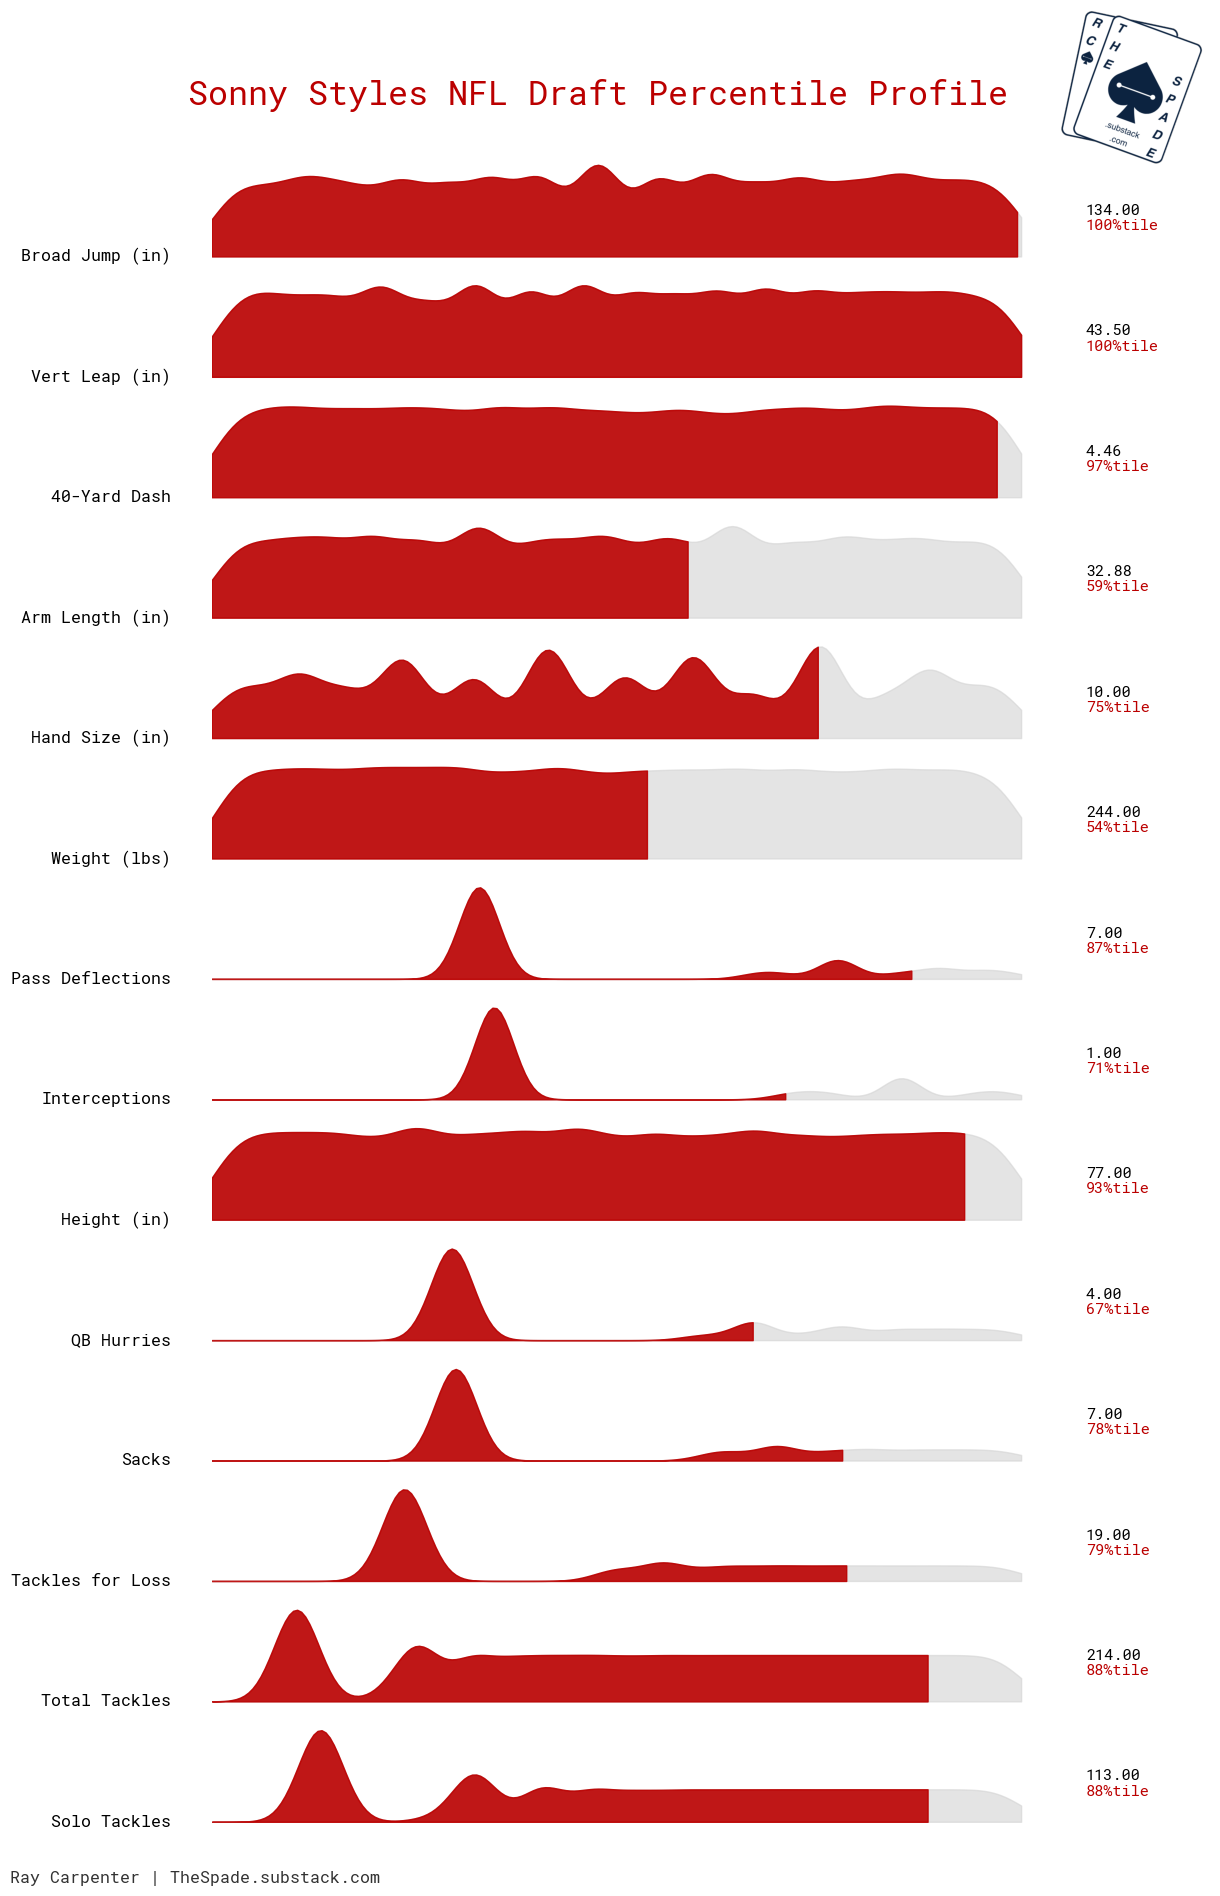
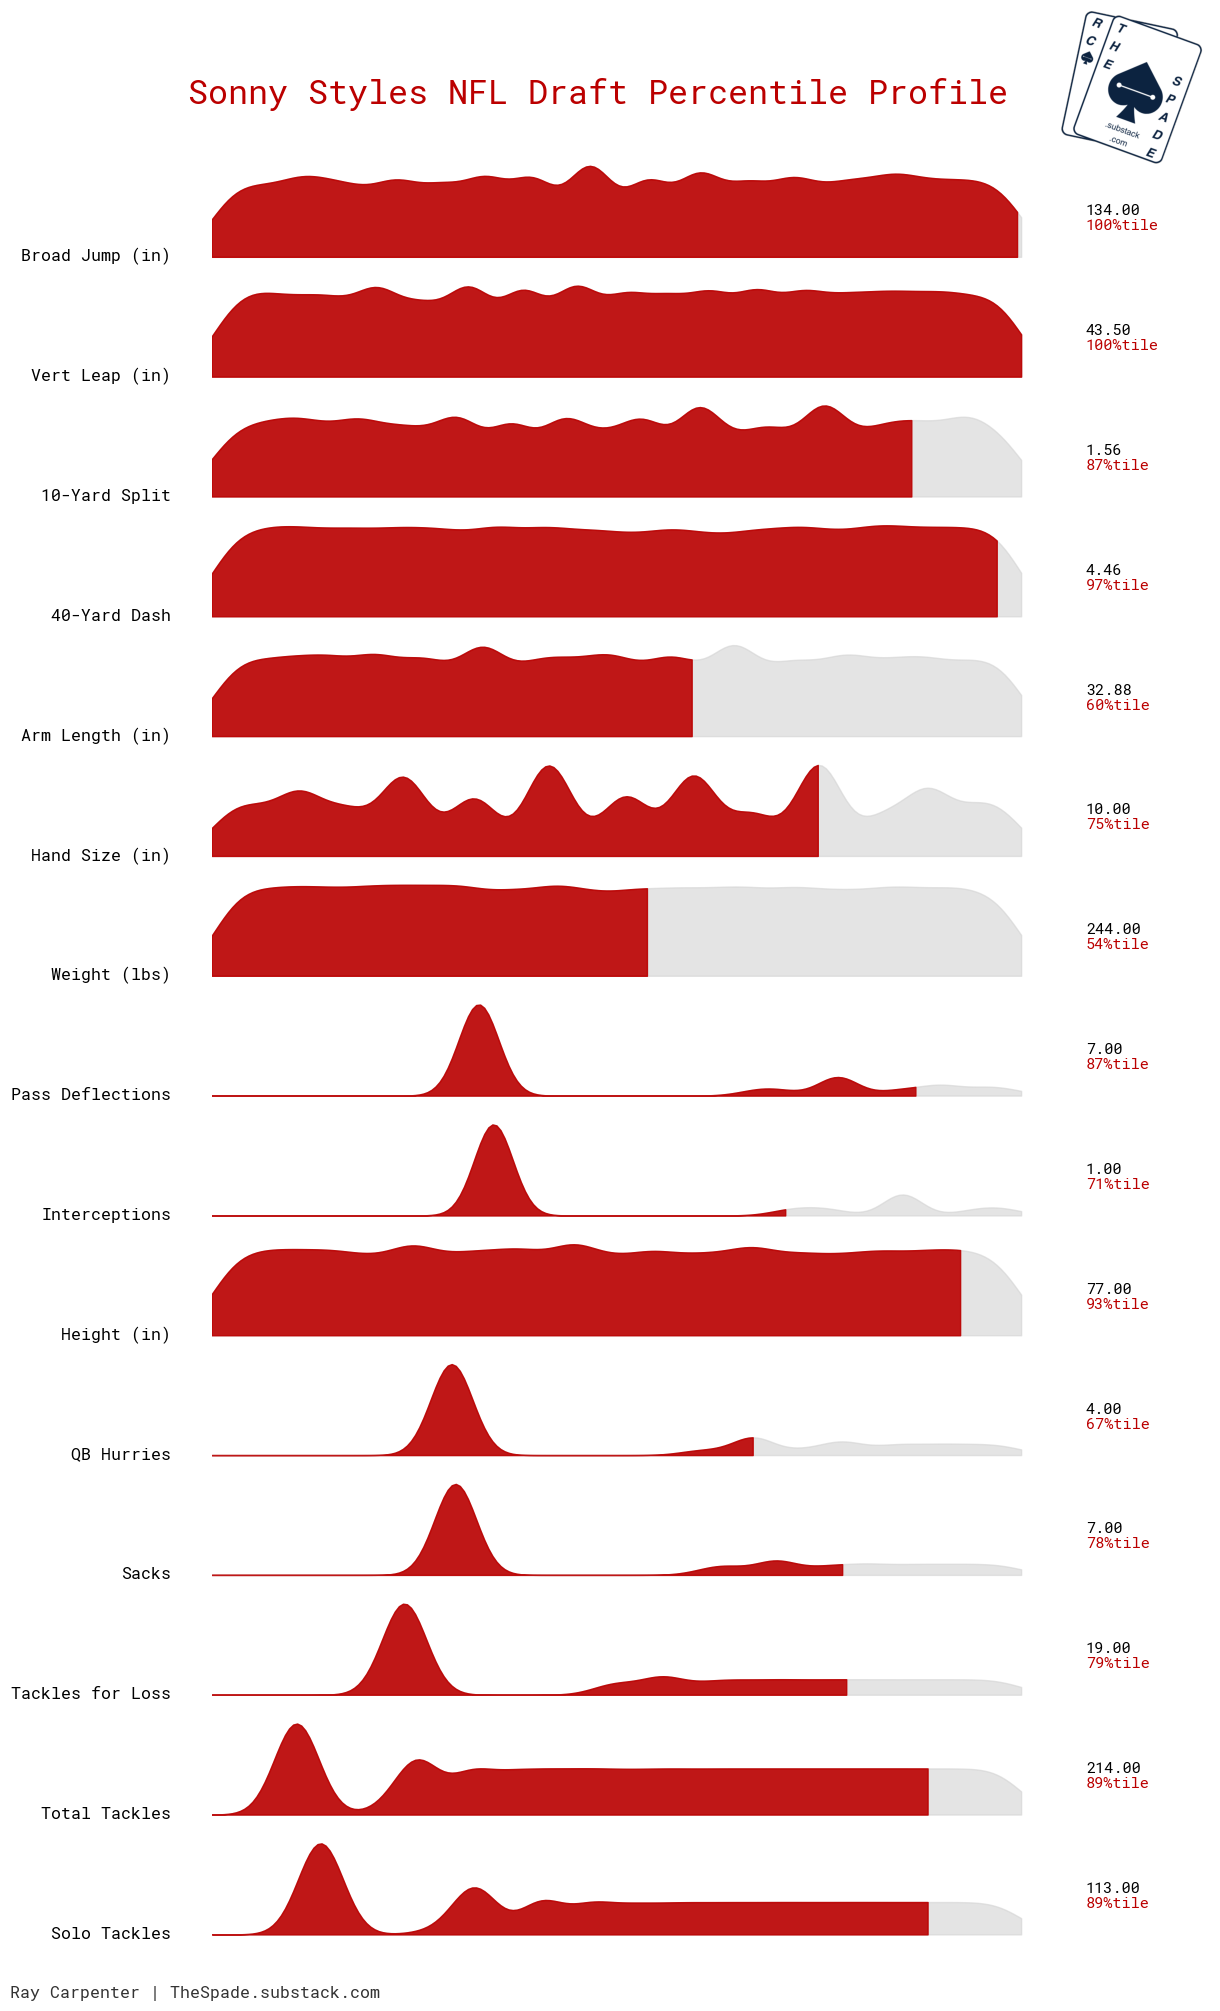
fixed years on 2024 guys

diff --git a/app.py b/app.py
@@ -11,6 +11,9 @@ from config import FILTERED_STATS_PATH, COMBINE_STATS_PATH
 
 st.set_page_config(page_title="NFL Draft Comparison Cards", layout="wide")
 
+# Bump this any time data_processor / config / plotting logic changes to bust the cache.
+_CACHE_VERSION = 2
+
 
 @st.cache_data
 def load_combine_options():
@@ -33,7 +36,7 @@ def get_stats_df():
 
 
 @st.cache_data
-def run_processor(player_name, year):
+def run_processor(player_name, year, _v=_CACHE_VERSION):
     stats_df = get_stats_df()
     processor = DataProcessor(stats_df)
     processor.process(player_name, player_year=year)
@@ -41,7 +44,7 @@ def run_processor(player_name, year):
 
 
 @st.cache_data
-def render_card(player_name, year):
+def render_card(player_name, year, _v=_CACHE_VERSION):
     """Render the comparison card to a high-res PNG buffer."""
     processor, stats_df = run_processor(player_name, year)
     plotter = DraftComparisonPlotter(processor, stats_df, player_name)

diff --git a/plotting.py b/plotting.py
@@ -222,7 +222,7 @@ class DraftComparisonPlotter:
             for col_idx, val in enumerate(row_vals):
                 if pd.isna(val):
                     formatted_val = "—"
-                elif row_name in {"40-Yard Dash", "3-Cone Drill", "Height (in)", "Hand Size (in)", "Arm Length (in)", "Shuttle", "Yards per Carry"}:
+                elif row_name in {"40-Yard Dash", "10-Yard Split", "3-Cone Drill", "Height (in)", "Hand Size (in)", "Arm Length (in)", "Shuttle", "Yards per Carry"}:
                     formatted_val = f"{val:.2f}"
                 elif row_name == "Yards per Attempt":
                     formatted_val = f"{val:.2f}"
